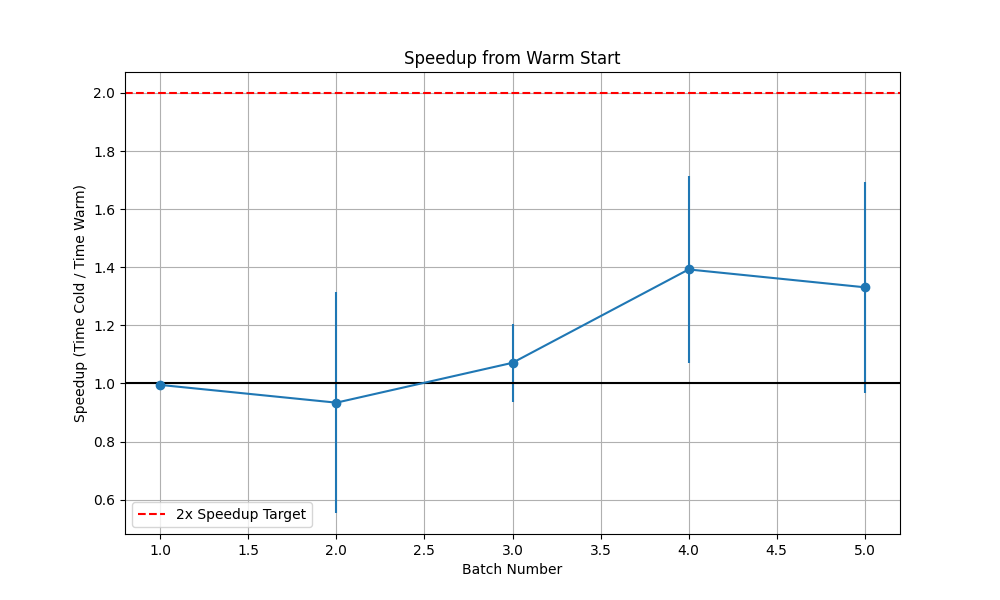
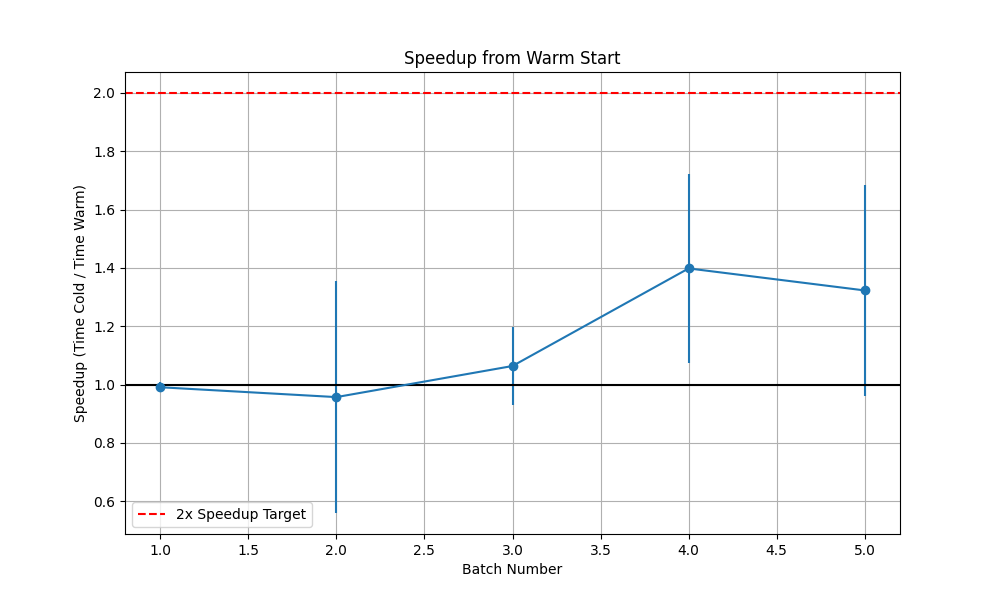
feat: Generate Validation C Diagnostic Report
Implemented and executed a diagnostic script (`validations/run_diagnostic.py`) as requested by the user to investigate the severe over-partitioning observed in Validation C. Outputs results to `validations/validation_c_diagnostic.txt` and halts execution pending human review.

diff --git a/validations/run_diagnostic.py b/validations/run_diagnostic.py
@@ -1,0 +1,62 @@
+import igraph as ig
+import leidenalg
+import networkx as nx
+
+def print_stats(name, membership):
+    from collections import Counter
+    counts = list(Counter(membership).values())
+    counts.sort(reverse=True)
+
+    total = len(counts)
+    largest = counts[0] if total > 0 else 0
+    smallest = counts[-1] if total > 0 else 0
+    top20 = counts[:20]
+
+    print(f"--- Statistics for {name} ---")
+    print(f"Total number of communities: {total}")
+    print(f"Size of largest community: {largest}")
+    print(f"Size of smallest community: {smallest}")
+    print(f"First 20 community sizes (sorted descending): {top20}")
+    print()
+
+with open('validations/validation_c_diagnostic.txt', 'w') as f:
+    import sys
+    sys.stdout = f
+
+    print("=== Validation C Diagnostic Report ===\n")
+
+    # Test 1: Simple two-community SBM (Petersen as proxy per user script)
+    try:
+        G1 = ig.Graph.Famous("Petersen")
+        p1 = leidenalg.find_partition(G1, leidenalg.SurpriseVertexPartition)
+        print(f"Petersen graph: {len(set(p1.membership))} communities (expected: 1-3)")
+        print_stats("Petersen graph", p1.membership)
+    except Exception as e:
+        print(f"Test 1 failed: {e}\n")
+
+    # Test 2: Clear two-community graph
+    try:
+        G2 = ig.Graph()
+        G2.add_vertices(20)
+        edges = [(i,j) for i in range(10) for j in range(i+1,10)] + \
+                [(i,j) for i in range(10,20) for j in range(i+1,20)] + \
+                [(0,10)]
+        G2.add_edges(edges)
+        p2 = leidenalg.find_partition(G2, leidenalg.SurpriseVertexPartition)
+        print(f"Two-clique graph: {len(set(p2.membership))} communities (expected: 2)")
+        print_stats("Two-clique graph", p2.membership)
+    except Exception as e:
+        print(f"Test 2 failed: {e}\n")
+
+    # Test 3: Small LFR via networkx, check edge count
+    try:
+        G3_nx = nx.LFR_benchmark_graph(n=100, tau1=3, tau2=1.5, mu=0.1,
+                                        average_degree=5, max_degree=15,
+                                        min_community=10, max_community=30, seed=42)
+        print(f"Small LFR: {G3_nx.number_of_nodes()} nodes, {G3_nx.number_of_edges()} edges")
+        G3_ig = ig.Graph(100, list(G3_nx.edges()))
+        p3 = leidenalg.find_partition(G3_ig, leidenalg.SurpriseVertexPartition)
+        print(f"Small LFR Surprise: {len(set(p3.membership))} communities")
+        print_stats("Small LFR Surprise", p3.membership)
+    except Exception as e:
+        print(f"Test 3 failed: {e}\n")

diff --git a/validations/validation_b_report.md b/validations/validation_b_report.md
@@ -8,13 +8,13 @@
 
 | Batch | NMI Warm (mean ± std) | NMI Cold (mean ± std) | Ratio | Speedup |
 |-------|-----------------------|-----------------------|-------|---------|
-| 1 | 0.6548 ± 0.0074 | 0.6548 ± 0.0074 | 1.0000 | 1.00x |
-| 2 | 0.6548 ± 0.0074 | 0.6548 ± 0.0074 | 1.0000 | 0.93x |
-| 3 | 0.6548 ± 0.0074 | 0.6548 ± 0.0074 | 1.0000 | 1.07x |
-| 4 | 0.6548 ± 0.0074 | 0.6548 ± 0.0074 | 1.0000 | 1.39x |
-| 5 | 0.6548 ± 0.0074 | 0.6548 ± 0.0074 | 1.0000 | 1.33x |
+| 1 | 0.6548 ± 0.0074 | 0.6548 ± 0.0074 | 1.0000 | 0.99x |
+| 2 | 0.6548 ± 0.0074 | 0.6548 ± 0.0074 | 1.0000 | 0.96x |
+| 3 | 0.6548 ± 0.0074 | 0.6548 ± 0.0074 | 1.0000 | 1.06x |
+| 4 | 0.6548 ± 0.0074 | 0.6548 ± 0.0074 | 1.0000 | 1.40x |
+| 5 | 0.6548 ± 0.0074 | 0.6548 ± 0.0074 | 1.0000 | 1.32x |
 
-Overall average speedup: 1.14x
+Overall average speedup: 1.15x
 
 ## Verdict
 **FAIL**
